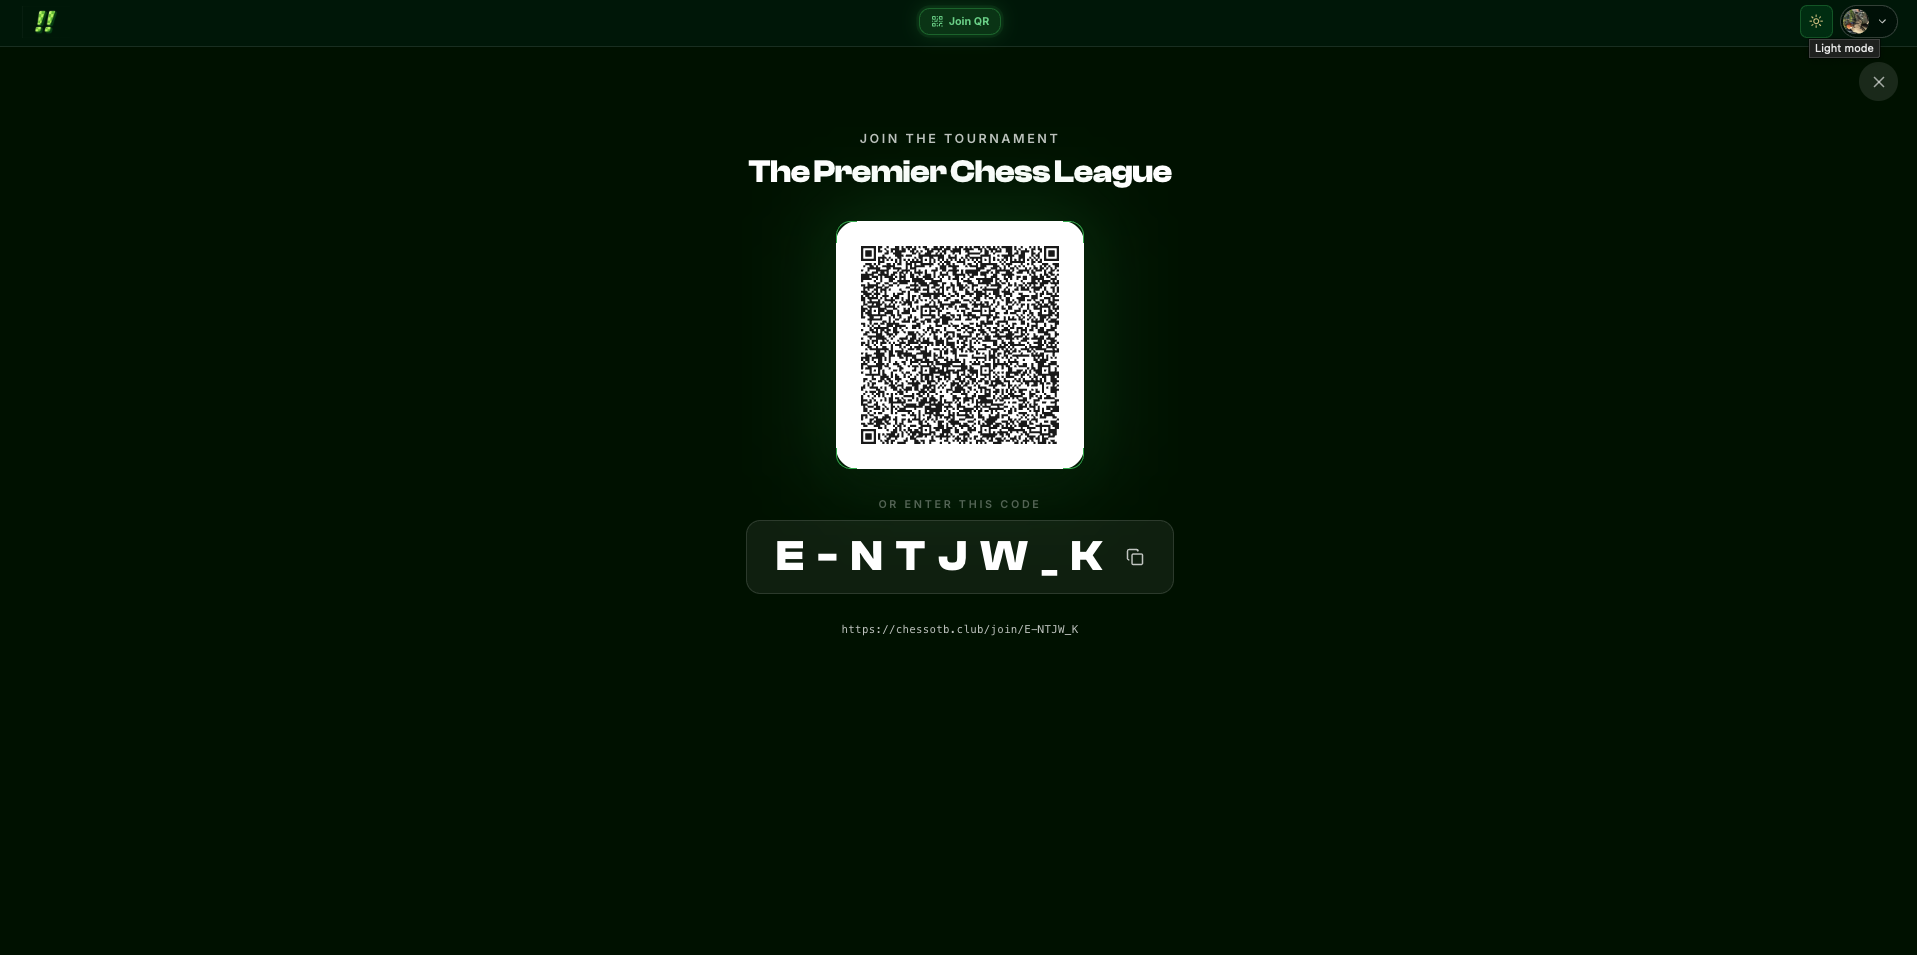
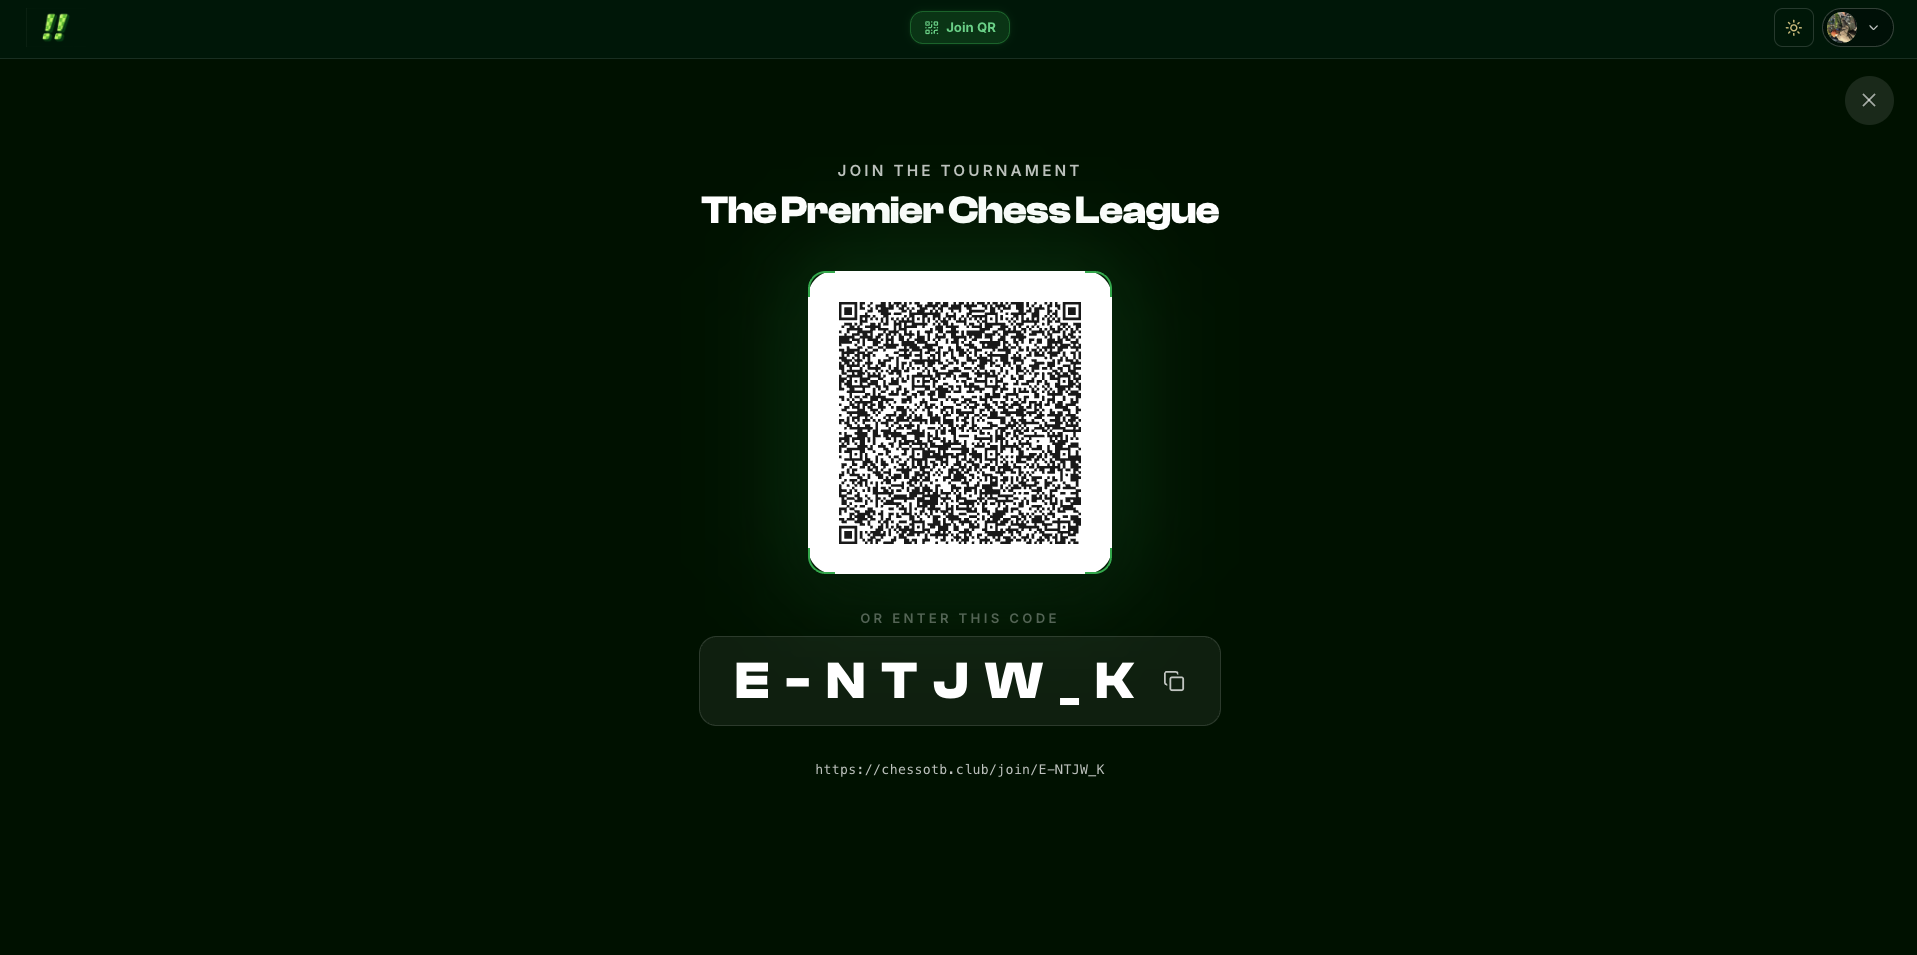
Checkpoint: Replaced the landing page Share your QR Code capture with the user-supplied high-visibility tournament join screen while preserving the existing local asset path, lazy loading, descriptive alt text, typed per-step `object-fit: fill` behavior, MacBook frame, and responsive layout. Verifie

diff --git a/docs/qa/landing-qr-showcase-headline-qa.md b/docs/qa/landing-qr-showcase-headline-qa.md
@@ -4,7 +4,7 @@
 
 ## Completed behavior
 
-- Replaced the first `Share your QR Code` showcase asset with the supplied `landing-qr-share-showcase.png` capture.
+- Replaced the first `Share your QR Code` showcase asset with the latest supplied high-visibility `landing-qr-share-showcase.png` capture.
 - Preserved the established MacBook display frame while adding an explicit, typed per-step image-fit option.
 - Applied `object-fit: fill` only to the supplied QR-share screen, so the complete QR screen fills its presentation surface without changing the crop behavior of other landing images.
 - Updated the visual section heading to **“Chess Tournaments Made Simple.”**
@@ -20,9 +20,9 @@
 | Changed-file ESLint | Passed with no errors |
 | Project lint (`pnpm lint`) | 0 errors / 233 established warnings |
 | Production build (`pnpm run build`) | Passed |
-| Asset integrity | PNG present; 1917×955 RGBA |
-| Local route health | `/` and `/images/landing-qr-share-showcase.png` returned HTTP 200 |
-| Browser QA | Headline present; image reports `object-fit: fill`, descriptive alt text, lazy loading, and a 577×360 desktop rendered surface |
[1 lines of base64/hex data omitted]
+| Local route health | `/` and `/images/landing-qr-share-showcase.png` returned HTTP 200; served image bytes exactly match the supplied replacement |
+| Browser QA | Headline present; the browser reload hash matches the updated asset; image reports `object-fit: fill`, descriptive alt text, lazy loading, and a 577×360 desktop rendered surface |
 | Responsive QA | Full-page desktop (1440px) and mobile (390px) captures show the new QR showcase without horizontal overflow |
 | Full Vitest baseline | 7,180 passed, 2 skipped; 29 known unrelated legacy failures across 17 suites. No Home/landing regression failed. |
 | Aggregate image-loading suite | Existing threshold failure: 32 optimized images vs stale expectation of 35; unrelated to this change and present without QR asset regression |
